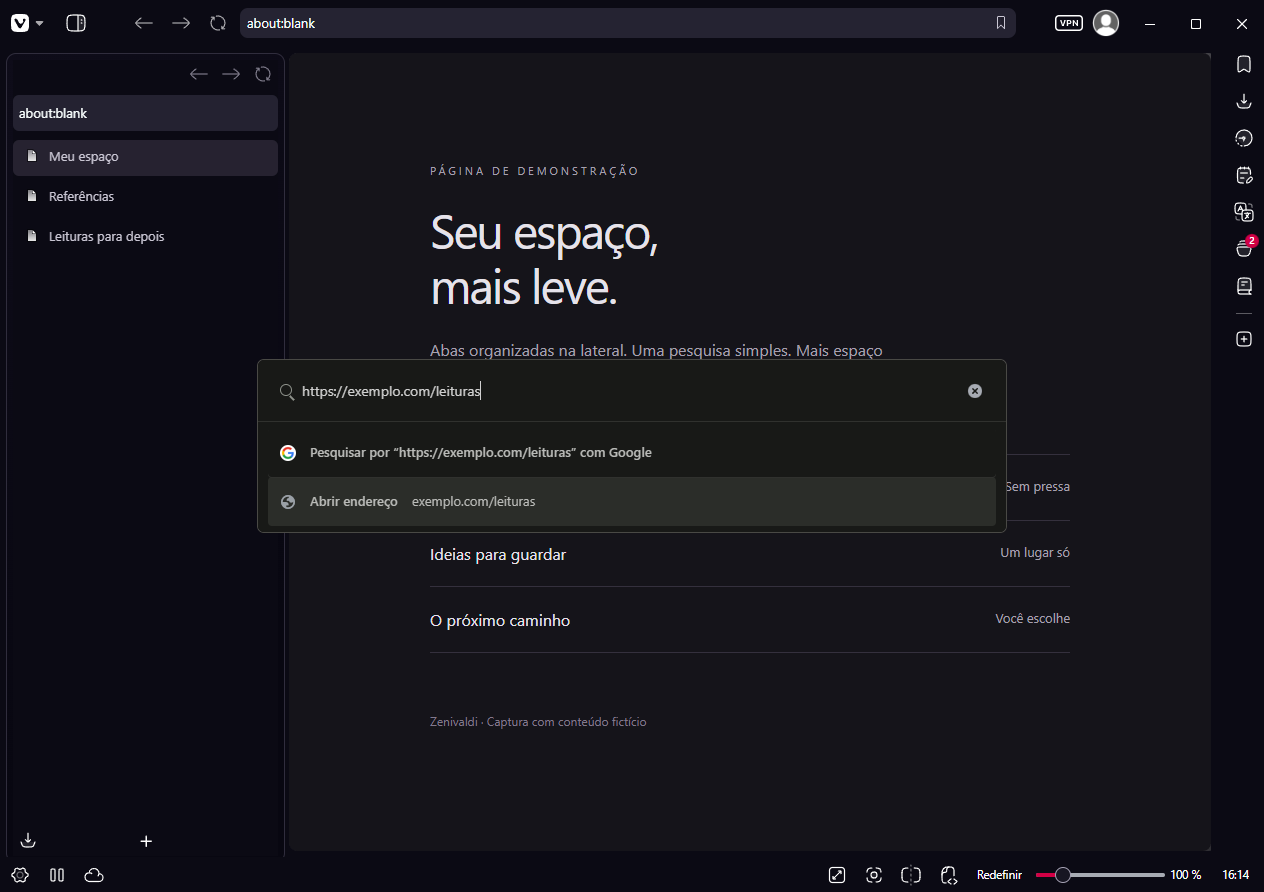
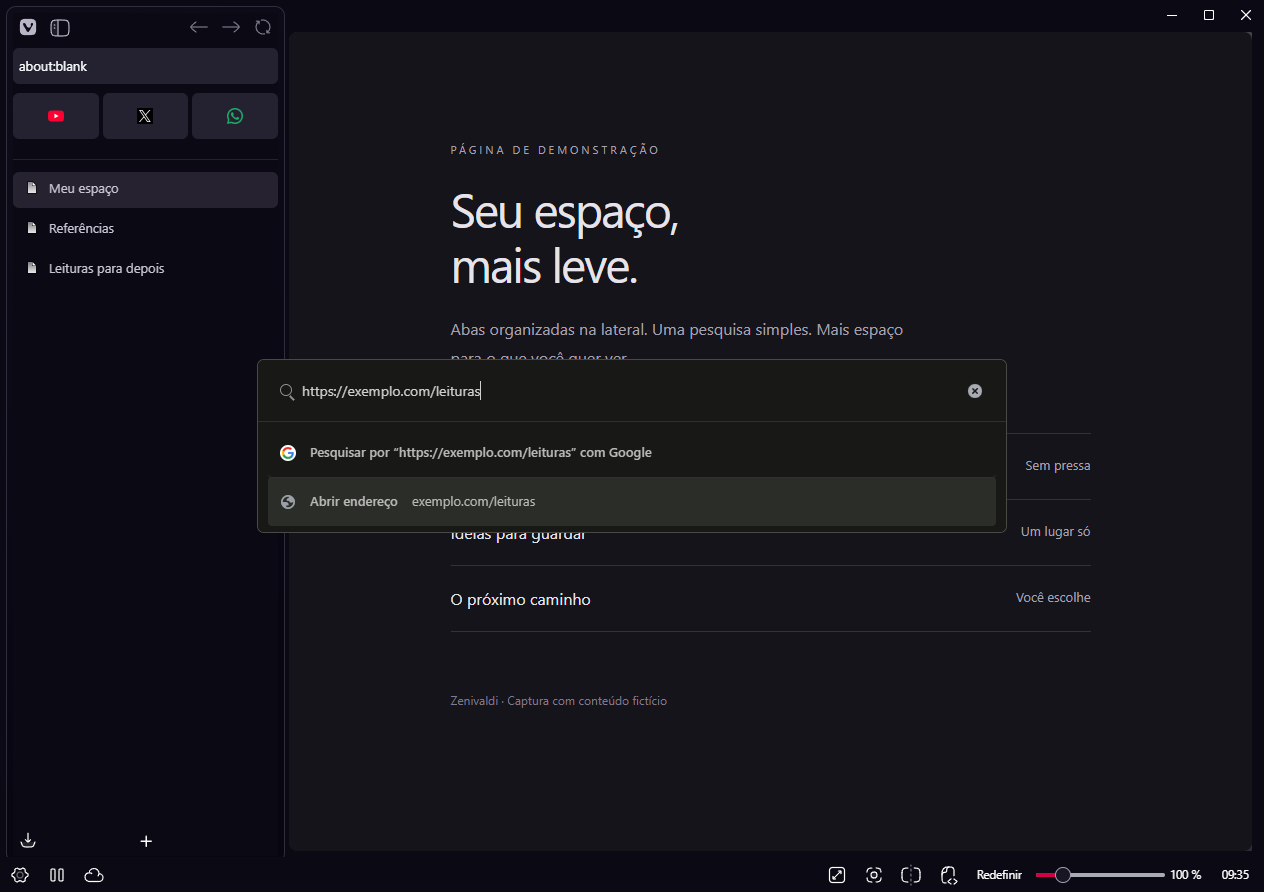
Integra os controles na lateral e destaca as abas fixadas
Oculta a barra superior duplicada, preserva os controles da janela e atualiza as capturas e o guia das abas fixadas.

diff --git a/src/menu-barra.js b/src/menu-barra.js
@@ -1,29 +1,126 @@
 (() => {
     window.menuBarraZen?.encerrar();
     let quadro = null;
-    let botao = null;
+    const botoes = new Map();
+    const origens = {
+        menu: '.toolbar-mainbar > button.vivaldi, #header > button.vivaldi',
+        painel: '.toolbar-mainbar button[data-name="PanelToggle"]'
+    };
+
+    function adicionarBotao(barra, nome, original) {
+        if (botoes.get(nome)?.isConnected) return;
+        const grupo = document.createElement('div');
+        grupo.className = `button-toolbar zen-${nome}-slot`;
+        const botao = original.cloneNode(true);
+        botao.removeAttribute('id');
+        botao.className = 'ToolbarButton-Button';
+        botao.tabIndex = 0;
+        if (nome === 'menu') {
+            botao.addEventListener('mousedown', evento => {
+                if (evento.button !== 0) return;
+                evento.preventDefault();
+                const retangulo = botao.getBoundingClientRect();
+                const navegador = document.querySelector('#browser');
+                navegador.style.setProperty('--zen-menu-esquerda', `${retangulo.left}px`);
+                navegador.style.setProperty('--zen-menu-topo', `${retangulo.top}px`);
+                document.querySelector(origens.menu)?.dispatchEvent(new MouseEvent('mousedown', {
+                    bubbles:true, button:0, buttons:1, clientX:evento.clientX, clientY:evento.clientY
+                }));
+            });
+            botao.addEventListener('keydown', evento => {
+                if (!['Enter', ' '].includes(evento.key)) return;
+                evento.preventDefault();
+                botao.dispatchEvent(new MouseEvent('mousedown', {bubbles:true, button:0}));
+            });
+        } else {
+            botao.addEventListener('click', () => {
+                const painel = document.querySelector(origens.painel);
+                for (const tipo of ['pointerdown', 'pointerup']) {
+                    painel?.dispatchEvent(new PointerEvent(tipo, {
+                        bubbles:true, button:0, pointerId:1, pointerType:'mouse', isPrimary:true
+                    }));
+                }
+            });
+        }
+        grupo.append(botao);
+        barra.append(grupo);
+        botoes.set(nome, grupo);
+    }
 
     function posicionar() {
         quadro = null;
+        const navegador = document.querySelector('#browser');
         const barra = document.querySelector('#browser.tabs-left:not(.is-settingspage) .toolbar-tabbar-before');
-        const original = document.querySelector('#header > button.vivaldi');
-        if (!barra || !original || botao?.isConnected) return;
-        botao = original.cloneNode(true);
-        botao.removeAttribute('id');
-        botao.addEventListener('click', () => original.click());
-        barra.append(botao);
+        if (!barra) {
+            navegador?.classList.remove('zen-barra-integrada');
+            return;
+        }
+        for (const [nome, seletor] of Object.entries(origens)) {
+            const original = document.querySelector(seletor);
+            if (!original) continue;
+            adicionarBotao(barra, nome, original);
+            const botao = botoes.get(nome).querySelector('button');
+            for (const atributo of ['title', 'aria-label', 'aria-pressed']) {
+                const valor = original.getAttribute(atributo);
+                if (valor !== null && botao.getAttribute(atributo) !== valor) botao.setAttribute(atributo, valor);
+            }
+        }
+        const pronta = [...botoes.values()].filter(botao => botao.isConnected).length === 2
+            && Boolean(barra.querySelector('.UrlBar-AddressField'));
+        if (navegador?.classList.contains('zen-barra-integrada') !== pronta) {
+            navegador?.classList.toggle('zen-barra-integrada', pronta);
+        }
+        if (pronta) {
+            const lateral = barra.closest('.tabbar-wrapper').getBoundingClientRect().right;
+            navegador.style.setProperty('--zen-largura-lateral', `${lateral}px`);
+        }
+    }
+
+    function transferirFoco(evento) {
+        if (!document.querySelector('#browser.zen-barra-integrada')) return;
+        if (!evento.target.matches('.mainbar .UrlBar-AddressField input')) return;
+        const campo = document.querySelector('.toolbar-tabbar-before .UrlBar-AddressField input.url');
+        campo?.focus();
+        campo?.select();
+    }
+
+    function focarEndereco(evento) {
+        if (!evento.ctrlKey || evento.altKey || evento.shiftKey || evento.key.toLowerCase() !== 'l') return;
+        if (!document.querySelector('#browser.zen-barra-integrada')) return;
+        const campo = document.querySelector('.toolbar-tabbar-before .UrlBar-AddressField input.url');
+        if (!campo) return;
+        evento.preventDefault();
+        evento.stopImmediatePropagation();
+        campo.focus();
+        campo.select();
     }
 
     const observador = new MutationObserver(() => {
         if (quadro === null) quadro = requestAnimationFrame(posicionar);
     });
-    observador.observe(document.documentElement, { childList: true, subtree: true });
+    observador.observe(document.documentElement, {
+        childList:true, subtree:true, attributes:true, attributeFilter:['title', 'aria-label', 'aria-pressed']
+    });
+    const redimensionamento = new ResizeObserver(() => {
+        if (quadro === null) quadro = requestAnimationFrame(posicionar);
+    });
+    const lateral = document.querySelector('.tabbar-wrapper');
+    if (lateral) redimensionamento.observe(lateral);
+    document.addEventListener('focusin', transferirFoco);
+    document.addEventListener('keydown', focarEndereco, true);
     posicionar();
     window.menuBarraZen = {
         encerrar() {
             observador.disconnect();
+            redimensionamento.disconnect();
             if (quadro !== null) cancelAnimationFrame(quadro);
-            botao?.remove();
+            document.removeEventListener('focusin', transferirFoco);
+            document.removeEventListener('keydown', focarEndereco, true);
+            for (const botao of botoes.values()) botao.remove();
+            document.querySelector('#browser')?.classList.remove('zen-barra-integrada');
+            document.querySelector('#browser')?.style.removeProperty('--zen-largura-lateral');
+            document.querySelector('#browser')?.style.removeProperty('--zen-menu-esquerda');
+            document.querySelector('#browser')?.style.removeProperty('--zen-menu-topo');
         }
     };
 })();

diff --git a/src/zen.css b/src/zen.css
@@ -43,7 +43,7 @@
 
 #browser.tabs-left .toolbar-tabbar-before {
     display: grid !important;
-    grid-template-columns: 1fr repeat(3, 30px);
+    grid-template-columns: 30px 30px minmax(0, 1fr) repeat(3, 30px);
     grid-template-rows: 30px 36px;
     align-content: start;
     padding: 0 0 8px !important;
@@ -114,7 +114,7 @@
 
 #browser.tabs-left .toolbar-tabbar-before > .toolbar-extensions,
 #browser.tabs-left .toolbar-tabbar-before > .toolbar-command {
-    grid-column: 4;
+    grid-column: 6;
     grid-row: 2;
     justify-self: end;
     align-self: center;
@@ -570,4 +570,119 @@
     min-width: 0;
     opacity: 1;
     color: #babbb8;
+}
+
+#browser.tabs-left .toolbar-tabbar-before > .zen-menu-slot {
+    grid-column: 1;
+    grid-row: 1;
+}
+
+#browser.tabs-left .toolbar-tabbar-before > .zen-painel-slot {
+    grid-column: 2;
+    grid-row: 1;
+}
+
+#browser.tabs-left .toolbar-tabbar-before > .toolbar-spacer-flexible {
+    grid-column: 3;
+    grid-row: 1;
+}
+
+#browser.tabs-left .toolbar-tabbar-before > .button-toolbar:has(button[data-name="Back"]) {
+    grid-column: 4;
+    grid-row: 1;
+}
+
+#browser.tabs-left .toolbar-tabbar-before > .button-toolbar:has(button[data-name="Forward"]) {
+    grid-column: 5;
+    grid-row: 1;
+}
+
+#browser.tabs-left .toolbar-tabbar-before > .button-toolbar:has(button[data-name="Reload"]) {
+    grid-column: 6;
+    grid-row: 1;
+}
+
+#browser.tabs-left :is(.zen-menu-slot, .zen-painel-slot) button {
+    position: static !important;
+    width: 30px !important;
+    height: 30px !important;
+    min-width: 0 !important;
+    margin: 0 !important;
+    padding: 0 !important;
+    scale: 1 !important;
+    -webkit-app-region: no-drag;
+}
+
+#browser.tabs-left :is(.zen-menu-slot, .zen-painel-slot) {
+    display: flex;
+    align-self: center;
+    align-items: center;
+    justify-content: center;
+    height: 30px;
+}
+
+#browser.tabs-left .zen-menu-slot .expand-arrow {
+    display: none;
+}
+
+#browser.tabs-left .zen-menu-slot svg {
+    width: 20px;
+    height: 20px;
+}
+
+#browser.zen-barra-integrada #main > .mainbar,
+#browser.zen-barra-integrada .mainbar > .toolbar-mainbar {
+    height: 0 !important;
+    min-height: 0 !important;
+    padding: 0 !important;
+    border: 0 !important;
+    overflow: visible !important;
+}
+
+#browser.zen-barra-integrada .toolbar-mainbar > * {
+    visibility: hidden;
+    pointer-events: none;
+}
+
+#browser.zen-barra-integrada .toolbar-mainbar > button.vivaldi {
+    position: fixed !important;
+    left: var(--zen-menu-esquerda, 13px);
+    top: var(--zen-menu-topo, 13px);
+    width: 30px !important;
+    height: 30px !important;
+    margin: 0 !important;
+    scale: 1 !important;
+}
+
+#browser.zen-barra-integrada .mainbar .window-buttongroup {
+    position: fixed;
+    top: 0;
+    right: 0;
+    height: 28px;
+    z-index: 30;
+    visibility: visible;
+    pointer-events: auto;
+}
+
+#browser.zen-barra-integrada .mainbar .window-buttongroup button {
+    height: 28px;
+    width: 36px;
+}
+
+#browser.zen-barra-integrada #webview-container {
+    margin-top: 32px;
+}
+
+#browser.zen-barra-integrada #panels-container {
+    padding-top: 32px;
+}
+
+#browser.zen-barra-integrada::before {
+    content: '';
+    position: fixed;
+    top: 0;
+    left: var(--zen-largura-lateral, 290px);
+    right: 108px;
+    height: 28px;
+    -webkit-app-region: drag;
 }

diff --git a/README.md b/README.md
@@ -4,7 +4,7 @@
 
 <p>Seu Vivaldi com mais espaço e um visual inspirado no Zen Browser.</p>
 
-<p>Abas na lateral. Pesquisa flutuante. Links que abrem direto.</p>
+<p>Seus sites favoritos fixados. Abas na lateral. Pesquisa flutuante.</p>
 
 <p>
 <a href="https://github.com/levigarciia/Zenivaldi/releases/latest"><strong>Baixar para Windows</strong></a>
@@ -19,9 +19,21 @@
 
 <p align="center"><em>Captura real do Vivaldi em perfil de demonstração, com página e dados fictícios.</em></p>
 
-| Mais espaço | Pesquisa mais clara | Instalação simples |
+| Seus sites sempre à mão | Pesquisa mais clara | Instalação simples |
 | :--- | :--- | :--- |
-| Abas organizadas na lateral e recolhimento automático opcional. | Endereços simples primeiro e Google sempre disponível. | Baixe, extraia e execute. Sem ferramentas de programação. |
+| Abas fixadas em pequenos cartões com ícones, acima das outras abas. | Endereços simples primeiro e Google sempre disponível. | Baixe, extraia e execute. Sem ferramentas de programação. |
+
+## Seus favoritos viram abas fixadas
+
+YouTube, WhatsApp, GitHub ou qualquer site que você usa todo dia: fixe a aba e deixe seu ícone no topo da lateral. Os sites fixados ficam em pequenos cartões, separados das abas comuns, sem uma lista de títulos ocupando espaço.
+
+<p align="center">
+<img src="docs/images/abas-fixadas.png" alt="Abas fixadas do YouTube, X e WhatsApp em cartões com ícones, acima das abas comuns">
+</p>
+
+**Para fixar:** abra o site, clique com o botão direito na aba e escolha **Fixar aba**. Para desfazer, use **Desafixar aba** no mesmo menu. Você também pode arrastar as abas fixadas para mudar a ordem.
+
+Essa função usa as abas fixadas do próprio Vivaldi. O Zenivaldi cuida do visual, sem criar atalhos extras nem depender de uma conta do mod.
 
 ## Cole um link e abra direto
 
@@ -38,6 +50,9 @@ O pacote tem dois arquivos para usar com dois cliques: **Instalar.cmd** para ins
 ## O que muda
 
 * Abas verticais com ícones alinhados e animação suave quando outras abas sobem após um fechamento.
+* Abas fixadas em cartões compactos no topo, com os ícones dos seus sites.
+* Menu e botão de mostrar ou ocultar o painel junto de voltar, avançar e recarregar na lateral.
+* Barra superior duplicada oculta quando o campo de endereço já está na lateral. Os controles da janela continuam disponíveis.
 * Pesquisa flutuante com o mesmo visual ao abrir e durante a digitação.
 * Sugestões que priorizam a página principal dos sites e reduzem endereços repetidos.
 * Opção de pesquisar no Google sempre visível no topo da lista.
@@ -82,6 +97,8 @@ O instalador cuida do visual. A posição das barras é uma configuração do pr
 5. Se preferir usar **Ctrl+T**, abra **Configurações > Teclado**, remova esse atalho de **Nova aba** e atribua a **Comandos rápidos**.
 
 Os nomes e a localização dessas opções podem variar conforme a versão e o idioma do Vivaldi. O instalador não reorganiza suas barras nem substitui seus atalhos.
+
+Com o campo de endereço na lateral, a barra superior duplicada desaparece automaticamente. Os botões de menu e de painel ficam na primeira linha da lateral, junto da navegação. **Ctrl+L** continua selecionando o endereço, agora na lateral. Se os controles necessários não forem encontrados, o mod mantém a barra original visível.
 
 ## Como usar a pesquisa
 

diff --git a/docs/VALIDACAO.md b/docs/VALIDACAO.md
@@ -23,6 +23,9 @@ Os scripts de interface que deram origem a esta distribuição foram testados em
 * Confirmar que dois Enters seguidos não duplicam a abertura.
 * Colar um link sem correspondência no histórico e confirmar a opção de abertura direta imediatamente.
 * Abrir esse link com Enter, preservando caminho, parâmetros e fragmento, depois reabrir o modal.
+* Integrar menu e controle de painel na lateral e ocultar a barra superior duplicada.
+* Alternar o painel pelo botão novo e focar o endereço lateral com Ctrl+L.
+* Manter os controles da janela acessíveis e capturar as abas fixadas com ícones de sites públicos.
 
 Em testes controlados anteriores também foram verificados o deslocamento animado das abas, o reposicionamento de popups e a rolagem sem barra visível. Não foi feita uma validação de todos os sites, extensões, instalações portáteis ou combinações de mods.
 
